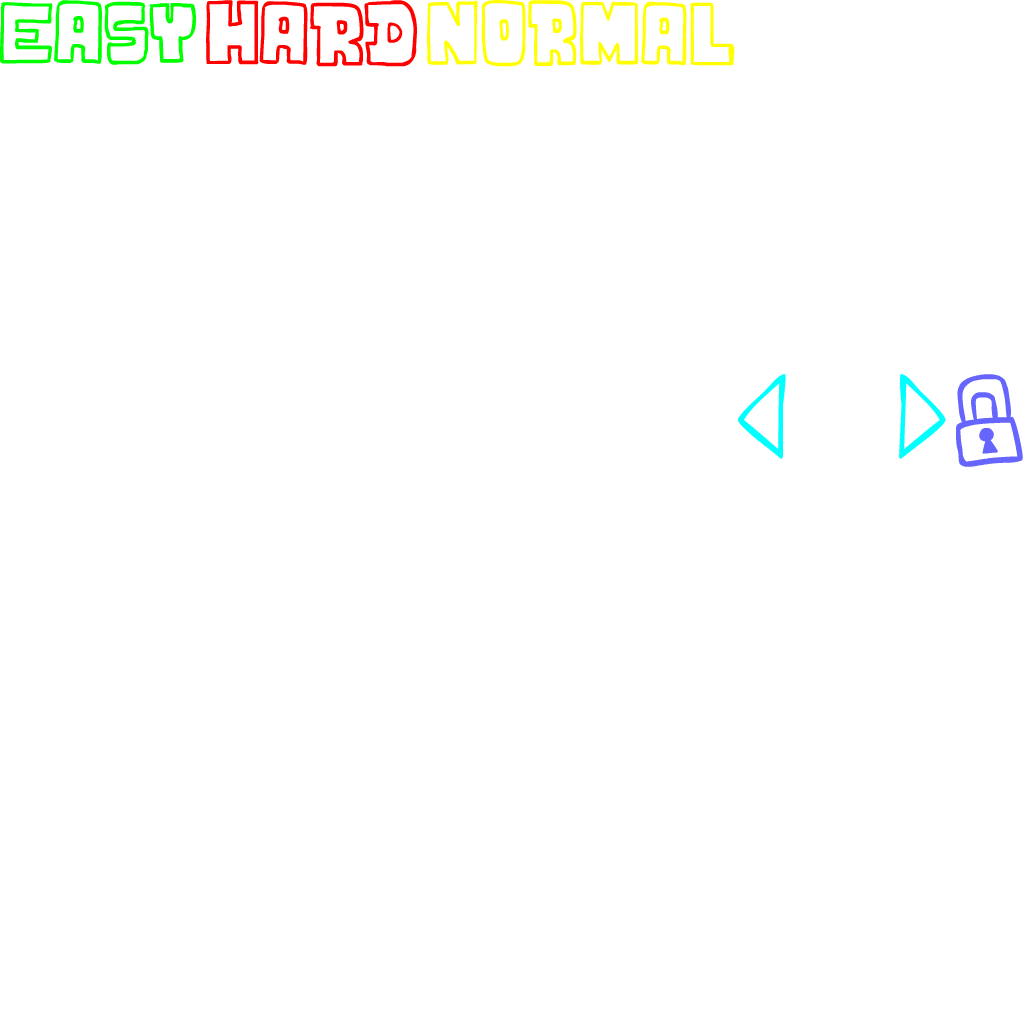
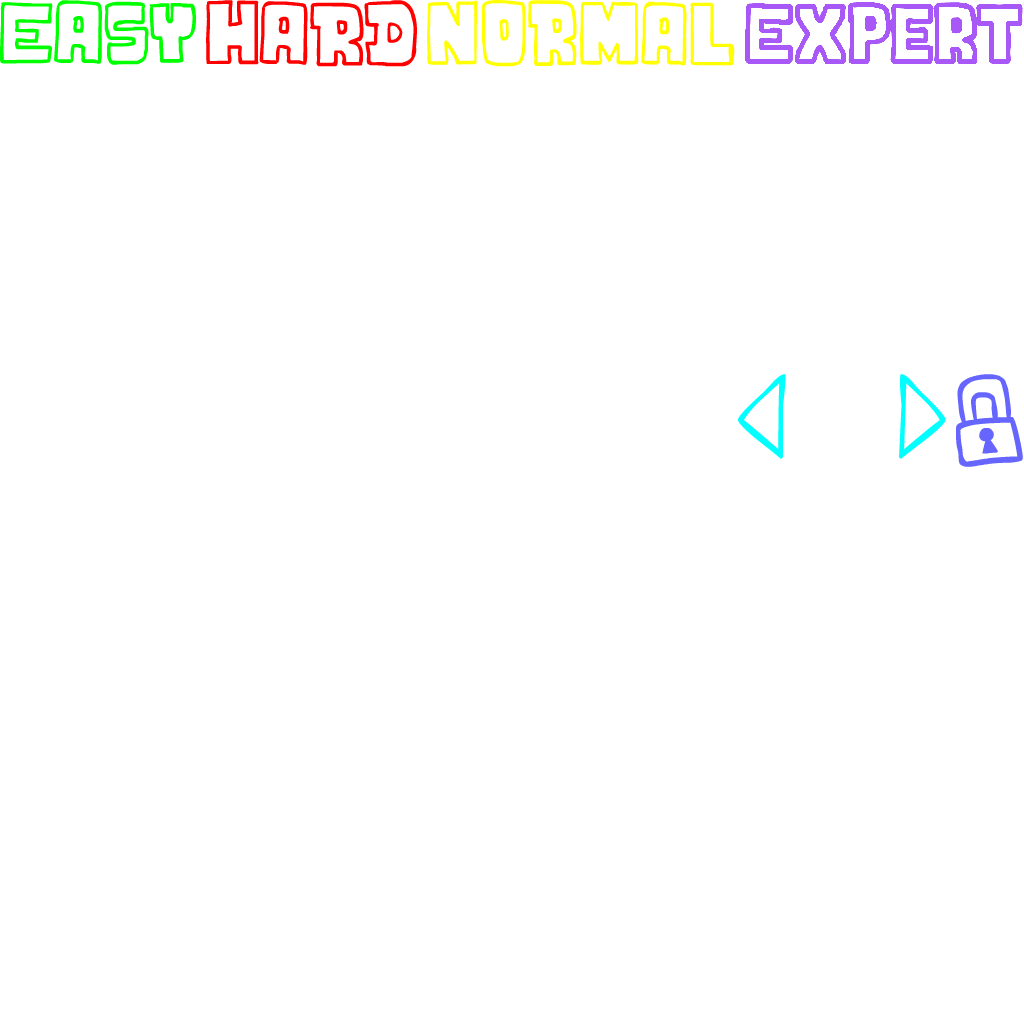
New Difficulty Text

Changed region(s): [[0.7188, 0.0, 1.0, 0.0625]]

diff --git a/CHANGELOG.md b/CHANGELOG.md
@@ -4,7 +4,7 @@ All notable changes will be documented in this file.
 The format is based on [Keep a Changelog](https://keepachangelog.com/en/1.0.0/),
 and this project adheres to [Semantic Versioning](https://semver.org/spec/v2.0.0.html).
 
-## [0.2.7.2] - 2026-02-1
+## [1.0.0] - 2026-02-10
 ### Added
 - High FPS Support, unlike the original version.
 - (MAJOR) Compiled with **Haxe 4.3.7**, latest version. Amazing isnt it?
@@ -14,6 +14,7 @@ and this project adheres to [Semantic Versioning](https://semver.org/spec/v2.0.0
 - More Options.
 - Psych Charting Compatibility!
 - Press F1 to hide HUD except notes!
+- New Expert Difficulty. (Configurable)
 
 ### Changed
 - Alot of files that were out-dated, compiled to the new version.
